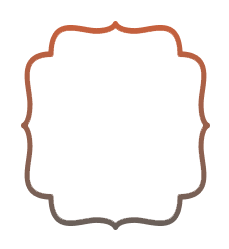
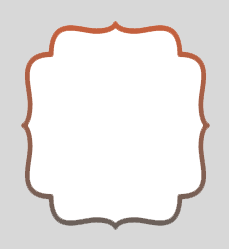
design changes

diff --git a/public/frontend/template_eight/homepage/homepage.css b/public/frontend/template_eight/homepage/homepage.css
@@ -10,7 +10,7 @@ padding-left: 0;
 article#page-container{position:relative;min-height:100vh;overflow:hidden}.slick-slide{float:left;height:100%;min-height:1px}.al_body_template_eight{background-color:#fff}
 .al_body_template_eight #myCarousel{border-radius:40px;overflow:hidden}
 .al_desktop_banner{display:block;min-height:fit-content;}
-.home-slider-wrapper .banner-img-outer img{max-width:1370px;border-radius:30px}article#page-container section .vendors section{padding:60px 0 0!important;margin-bottom:0!important}
+.home-slider-wrapper .banner-img-outer img{max-width:1370px;border-radius:30px}article#page-container section .vendors section{padding:60px 0 0;margin-bottom:0!important}
 .slick-slider{position:relative;display:block;-webkit-box-sizing:border-box;box-sizing:border-box;-webkit-touch-callout:none;-webkit-user-select:none;-moz-user-select:none;-ms-user-select:none;user-select:none;-ms-touch-action:pan-y;touch-action:pan-y;-webkit-tap-highlight-color:transparent}.slick-slider{overflow:inherit}.slick-slider .slick-list,.slick-slider .slick-track{-webkit-transform:translate3d(0,0,0);transform:translate3d(0,0,0)}.slick-track{position:relative;left:0;top:0;display:block;margin-left:auto;margin-right:auto}
 .al_body_template_eight .suppliers-box .suppliers-img-outer{border-radius:50%; text-align:center;border:none;background-color:#fff;padding-bottom:100%;position:relative;overflow:hidden;}
 .al_body_template_eight .al_custom_brand{text-align:center}
@@ -248,12 +248,36 @@ body.al_body_template_eight.homeHeader .menu-navigation.alThreeMenu {
 
 article#page-container section .vendors section h2.h2-heading {
     margin-bottom: 35px;
+    width: 90%;
+    display: block;
+    text-align: center;
+}
+section#our_vendor_main_div .suppliers-slider-vendors.product-m.render_vendors {
+    margin-bottom: 50px;
+}
+section#our_vendor_main_div .render_full_best_sellers {
+    padding: 50px 0 !important;
 }
 .Categories-section {
-    margin: 50px 0;
+    background-color: #d8d8d8;
+    padding: 30px 0 60px !important;
 }
 article#page-container section .vendors section img.btn-arrow {
     width: 30px;
+}
+section.main-heading {
+    padding: 50px 0 0!important;
+}
+.Categories-section a.brand-box.d-block.black-box h6 {
+    font-style: normal;
+    font-weight: 500;
+    font-size: 20px;
+    line-height: 16px;
+    color: #1D1D1D;
+    text-align: center;
+}
+section#our_vendor_main_div {
+    padding: 60px 0 !important;
 }
 /*----------new design media css---------*/
 @media(max-width:767px){

diff --git a/resources/views/frontend/home-template-test-eight.blade.php b/resources/views/frontend/home-template-test-eight.blade.php
@@ -557,7 +557,7 @@
 		@elseif($homePageLabel->slug == 'dynamic_page') @include('frontend.included_files.dynamic_page')
 		@elseif($homePageLabel->slug == 'brands' && (count($homePageData['brands']) != 0))
 		<section class="container popular-brands left-shape_ position-relative">
-			<div class="al_top_heading d-flex justify-content-between">
+			<div class="al_top_heading text-center">
 				<h2 class="h2-heading">{{(!empty($homePageLabel->translations->first()->title)) ? $homePageLabel->translations->first()->title : getNomenclatureName('brands', true)}}</h2>
 				{{-- <a class="" href="">See All  </a> --}}
 			</div>
@@ -645,12 +645,20 @@
 		<!-----------------Categories-------------------->
 		@if(@$categories)
 
-
+		<section class="main-heading">
+			<div class="container">
+				<div class="row">
+					<div class="col-md-12 text-center">
+						<div class="top-heading">
+							<h2 class="h2-heading"> Categories</h2>
+						</div>
+					</div>
+				</div>
+			</div>
+		</section>
 		<section class="mb-0 render_full_{{$homePageLabel->slug}} Categories-section" id="{{$homePageLabel->slug.$key}}">
 			<div class="container">
-				<div class="top-heading d-flex justify-content-between">
-					<h2 class="h2-heading"> Categories</h2>
-				</div>
+			
 				<div class="row">
 					<div class="col-12">
 						<div class="product-4-{{$homePageLabel->slug}} product-m  render_{{$homePageLabel->slug}}" id="{{$homePageLabel->slug.$key}}">
